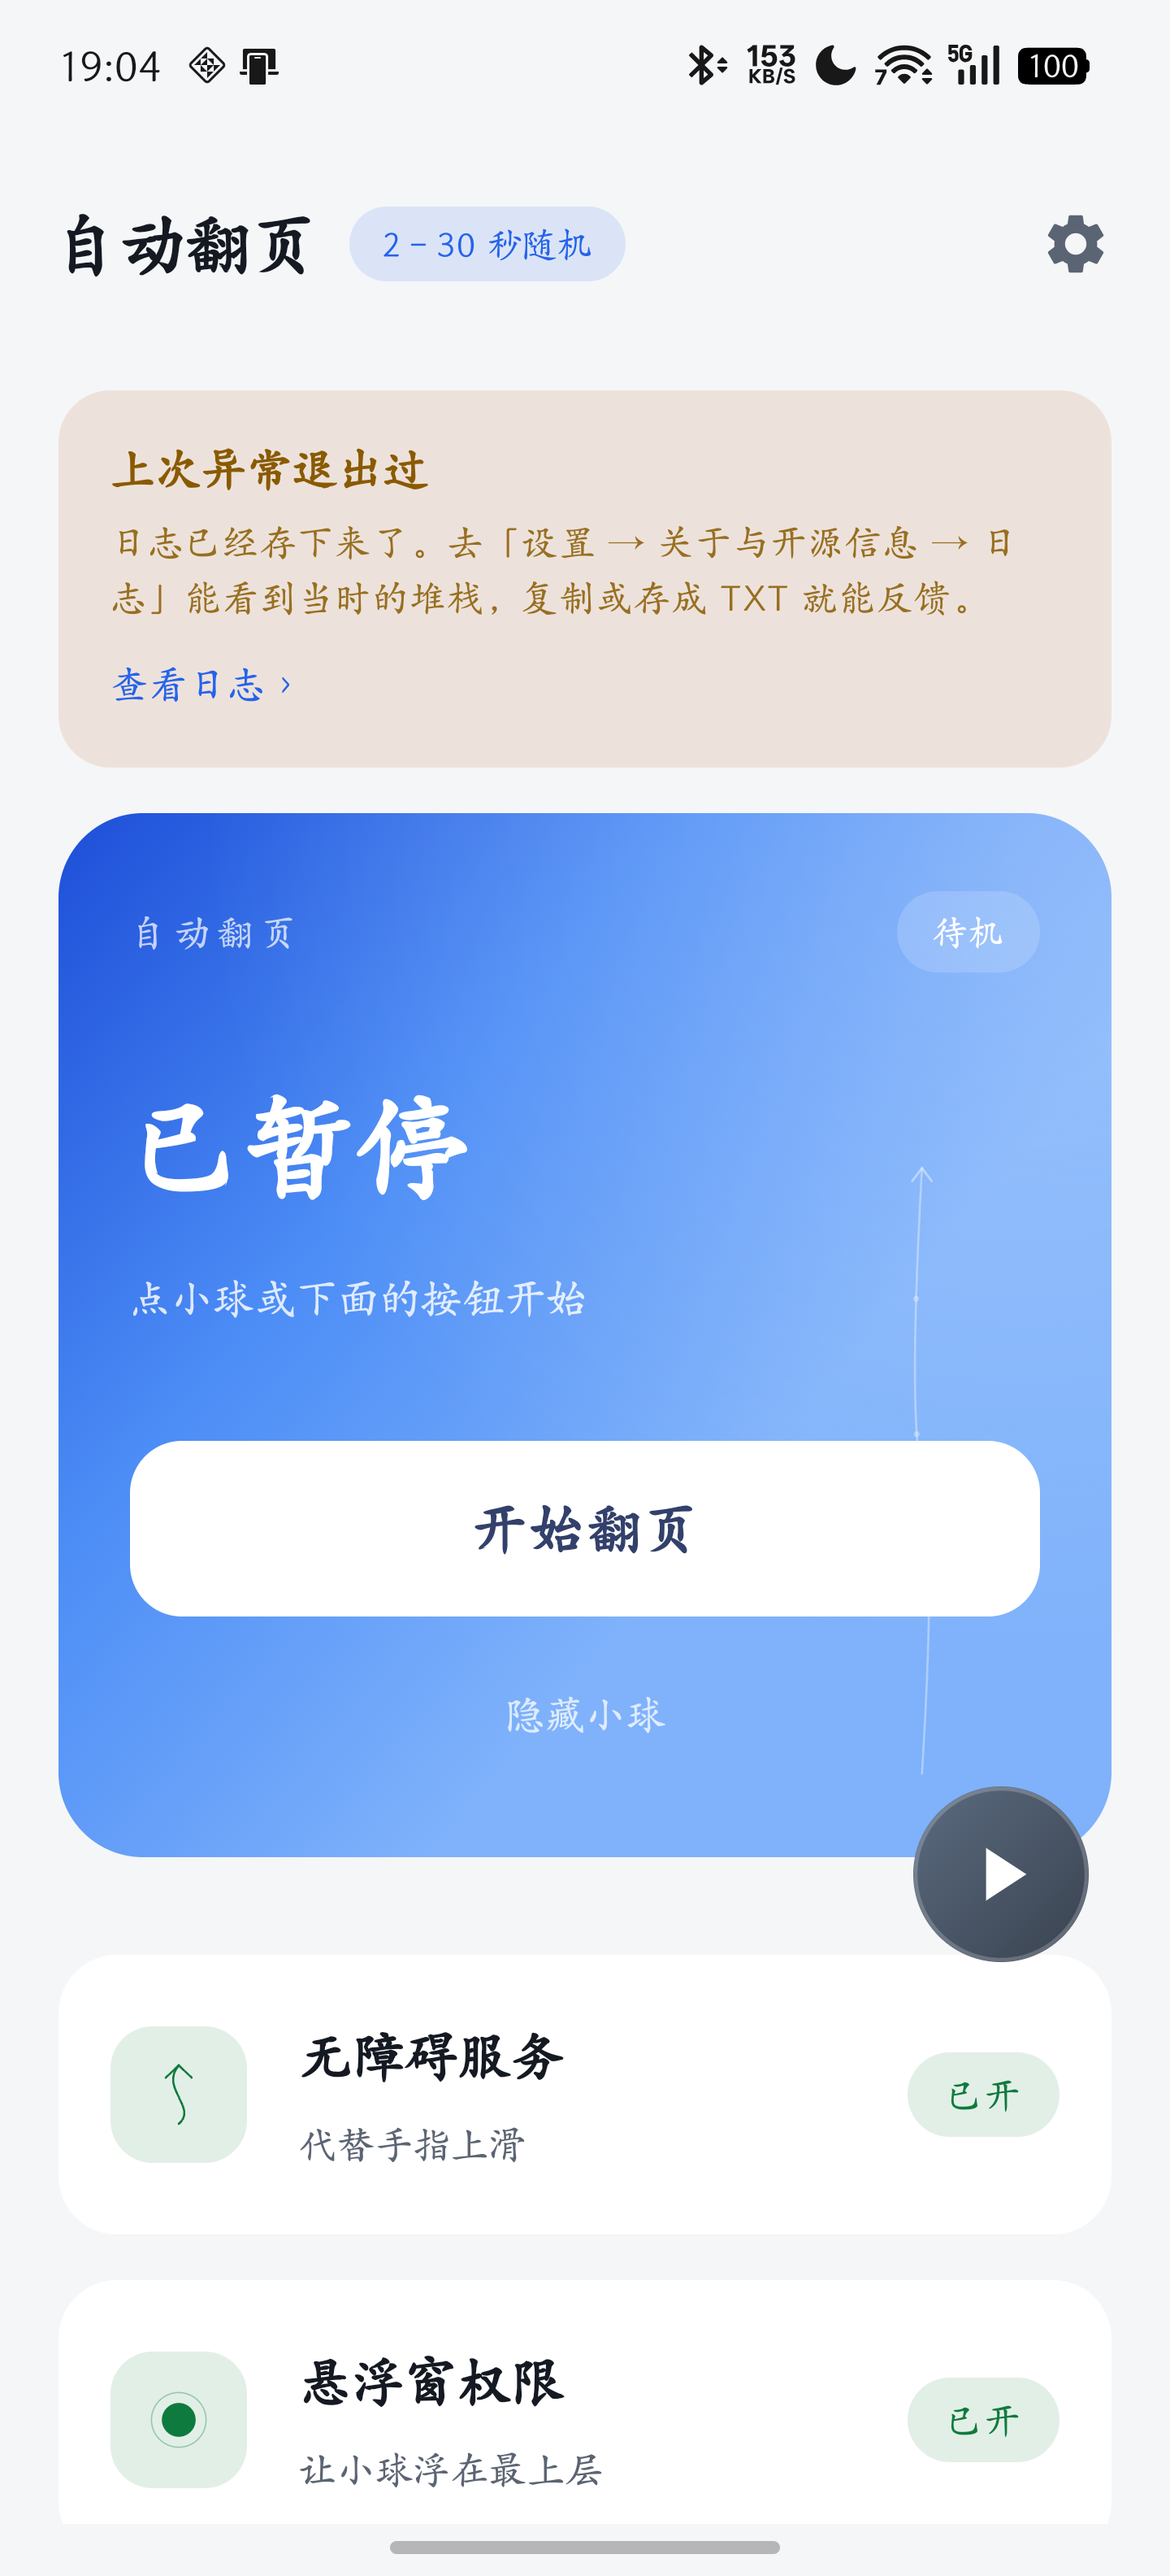
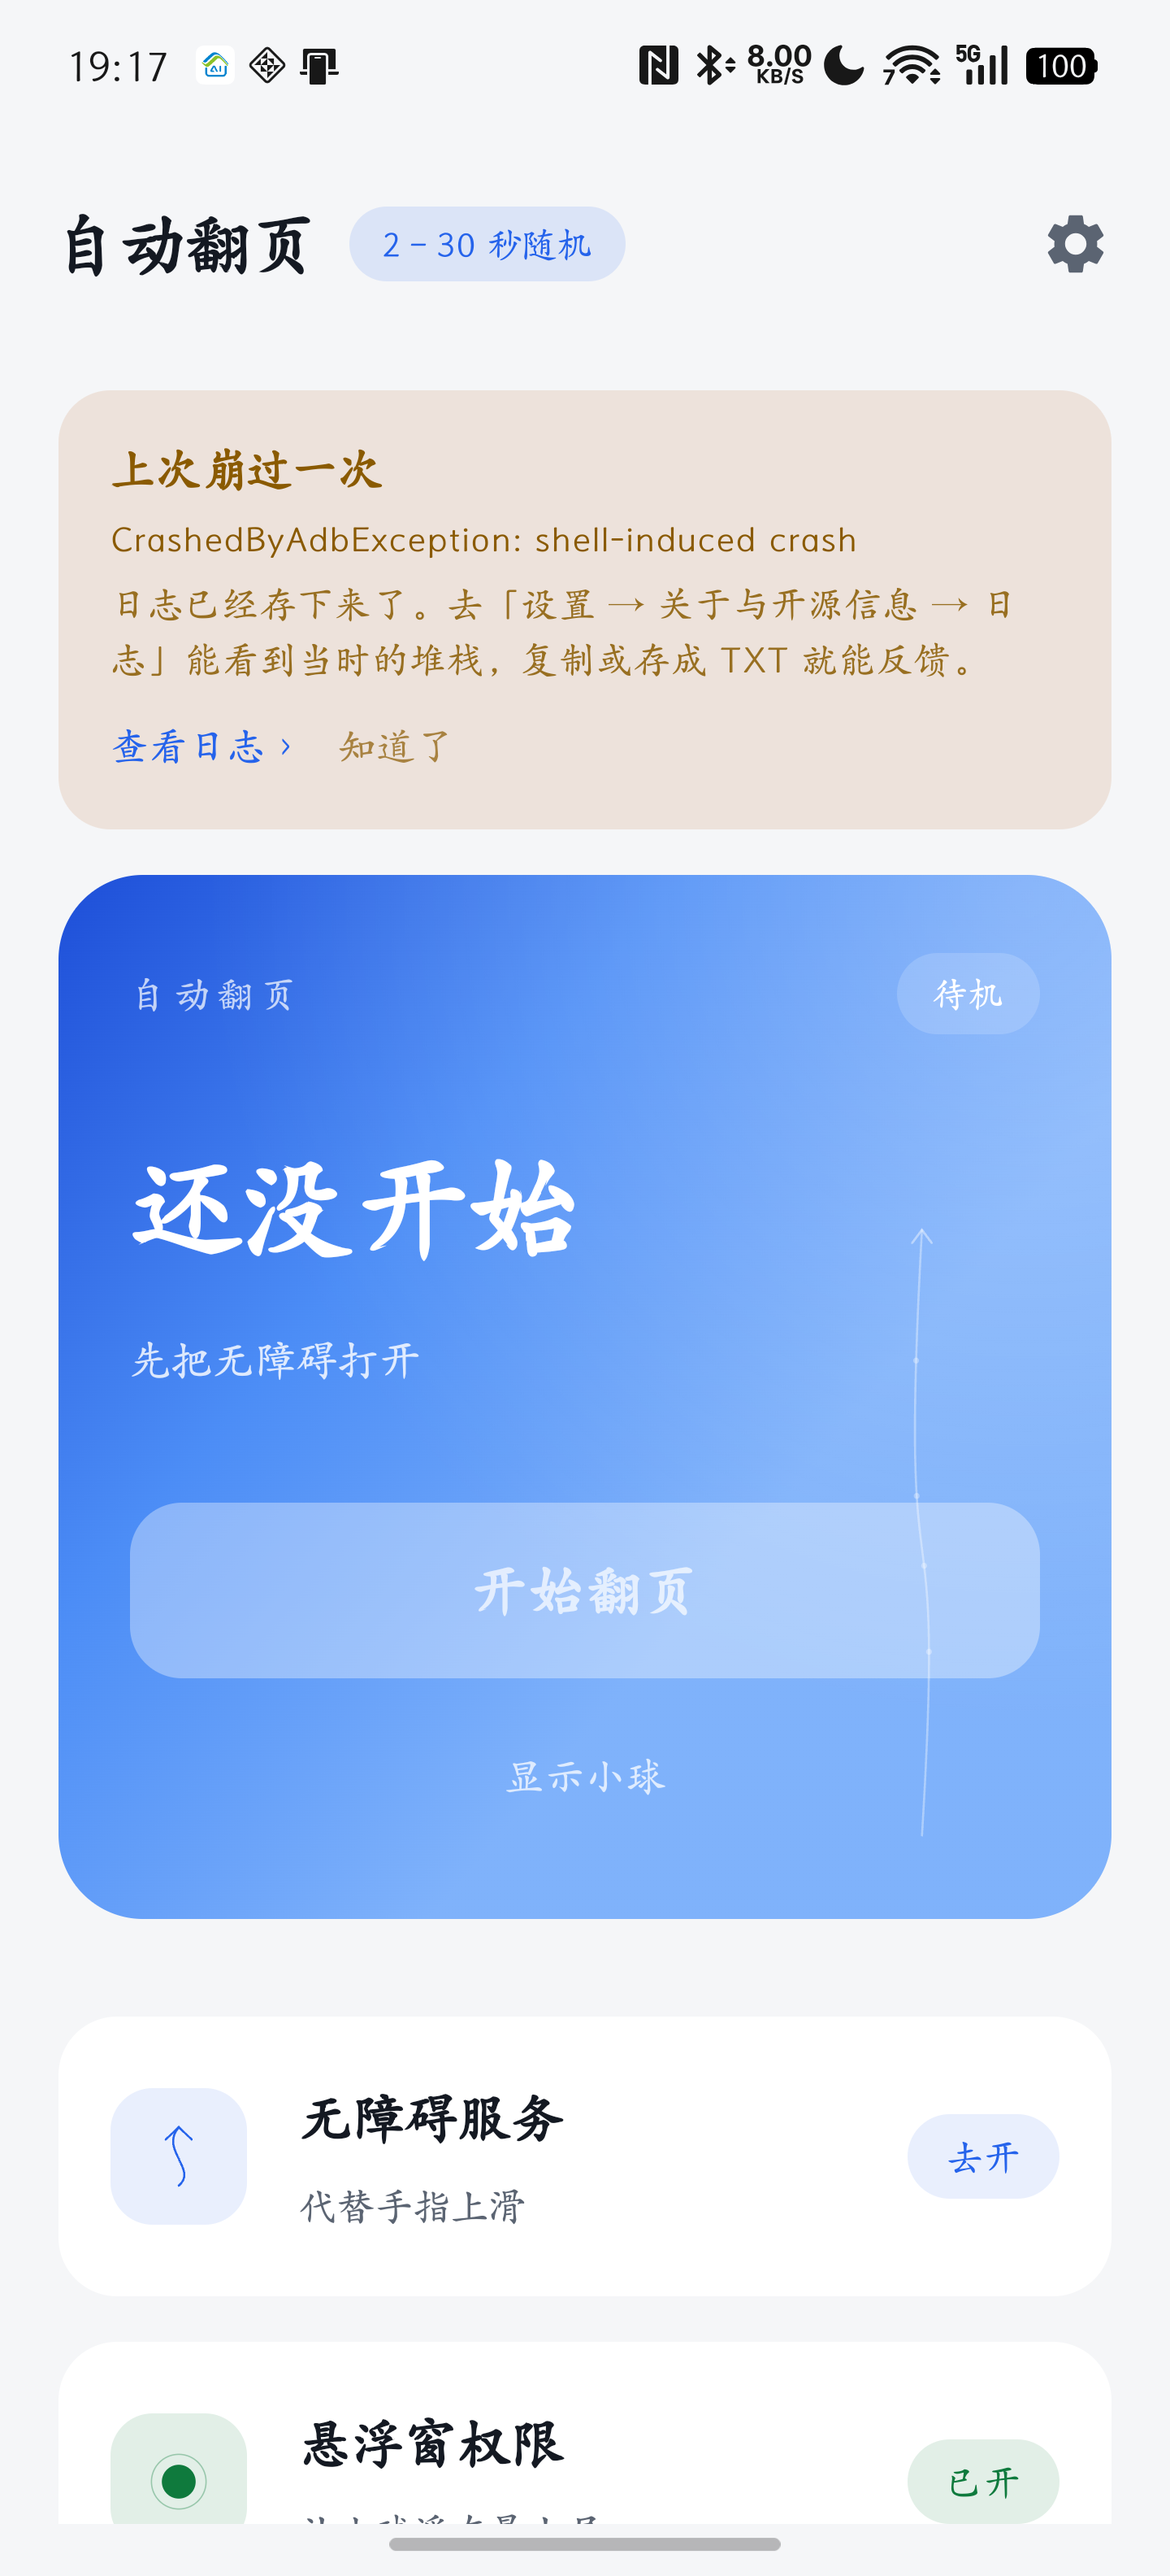
fix(1.1.0.1): crash notice fires once, recent-only, explicit dismiss; wrap long log lines

diff --git a/app/src/main/java/com/neurotracee/autoswipe/ui/HomeScreen.kt b/app/src/main/java/com/neurotracee/autoswipe/ui/HomeScreen.kt
@@ -31,6 +31,7 @@ import androidx.compose.ui.graphics.Path
 import androidx.compose.ui.graphics.drawscope.DrawScope
 import androidx.compose.ui.graphics.drawscope.Stroke
 import androidx.compose.ui.graphics.StrokeCap
+import androidx.compose.ui.text.font.FontFamily
 import androidx.compose.ui.text.font.FontWeight
 import androidx.compose.ui.text.style.TextAlign
 import androidx.compose.ui.unit.dp
@@ -55,7 +56,9 @@ fun HomeScreen(
     onOpenRepo: () -> Unit,
     onOpenGitee: () -> Unit,
     crashNotice: Boolean = false,
-    onOpenLogs: () -> Unit = {}
+    crashTitle: String = "",
+    onOpenLogs: () -> Unit = {},
+    onDismissCrash: () -> Unit = {}
 ) {
     Column(
         Modifier
@@ -66,7 +69,7 @@ fun HomeScreen(
         Spacer(Modifier.height(14.dp))
 
         if (crashNotice) {
-            CrashNoticeRow(onOpenLogs)
+            CrashNoticeRow(crashTitle, onOpenLogs, onDismissCrash)
             Spacer(Modifier.height(14.dp))
         }
 
@@ -256,20 +259,30 @@ private fun HeroCard(
 }
 
 @Composable
-private fun CrashNoticeRow(onOpenLogs: () -> Unit) {
+private fun CrashNoticeRow(crashTitle: String, onOpenLogs: () -> Unit, onDismiss: () -> Unit) {
     Surface(
         shape = RoundedCornerShape(16.dp),
         color = WarnAmber.copy(alpha = 0.12f),
-        modifier = Modifier.fillMaxWidth().clickable { onOpenLogs() }
+        modifier = Modifier.fillMaxWidth()
     ) {
         Column(Modifier.padding(horizontal = 16.dp, vertical = 14.dp)) {
             Text(
-                tr("上次异常退出过", "The app crashed last time"),
+                tr("上次崩过一次", "The app crashed last time"),
                 fontSize = 13.5.sp,
                 lineHeight = 20.sp,
                 fontWeight = FontWeight.SemiBold,
                 color = Color(0xFF8A5A00)
             )
+            if (crashTitle.isNotBlank()) {
+                Spacer(Modifier.height(4.dp))
+                Text(
+                    crashTitle,
+                    fontSize = 10.5.sp,
+                    lineHeight = 15.sp,
+                    fontFamily = FontFamily.Monospace,
+                    color = Color(0xFF8A5A00)
+                )
+            }
             Spacer(Modifier.height(4.dp))
             Text(
                 tr(
@@ -281,7 +294,16 @@ private fun CrashNoticeRow(onOpenLogs: () -> Unit) {
                 color = Color(0xFF8A5A00).copy(alpha = 0.85f)
             )
             Spacer(Modifier.height(6.dp))
-            Text(tr("查看日志 ›", "Open logs ›"), fontSize = 11.5.sp, color = BrandBlue)
+            Row(verticalAlignment = Alignment.CenterVertically) {
+                Text(tr("查看日志 ›", "Open logs ›"), fontSize = 11.5.sp, color = BrandBlue, modifier = Modifier.clickable { onOpenLogs() })
+                Spacer(Modifier.width(14.dp))
+                Text(
+                    tr("知道了", "Dismiss"),
+                    fontSize = 11.5.sp,
+                    color = Color(0xFF8A5A00).copy(alpha = 0.7f),
+                    modifier = Modifier.clickable { onDismiss() }
+                )
+            }
         }
     }
 }

diff --git a/app/src/main/java/com/neurotracee/autoswipe/LogBook.kt b/app/src/main/java/com/neurotracee/autoswipe/LogBook.kt
@@ -26,6 +26,9 @@ object LogBook {
     private const val DIR_NAME = "logs"
     private const val CRASH_FLAG = "crash-pending.txt"
 
+    /** 崩溃提示只对最近 7 天有效，避免旧记录一直挂着 */
+    private const val CRASH_FRESH_MS = 7L * 24 * 60 * 60 * 1000
+
     private val stamp = SimpleDateFormat("yyyy-MM-dd HH:mm:ss.SSS", Locale.US)
     private val dayFmt = SimpleDateFormat("yyyy-MM-dd", Locale.US)
     private val io = Executors.newSingleThreadExecutor { r ->
@@ -58,7 +61,7 @@ object LogBook {
             write(ctx, "I", "App", "启动 " + summary(ctx))
             val crash = lastCrashAt
             if (crash > 0) {
-                write(ctx, "W", "App", "上次异常退出于 " + stamp.format(Date(crash)) + "（详见当日日志里的 E/Crash）")
+                write(ctx, "W", "App", "上次崩溃于 " + stamp.format(Date(crash)) + "：" + lastCrashTitle + "（堆栈见当日日志 E/Crash）")
             }
         }
     }
@@ -99,17 +102,25 @@ object LogBook {
         }
     }
 
+    /**
+     * 只在「上一次确实是未捕获异常」时才留标记：进程被系统回收、用户切到别的应用、
+     * 正常退出，都不会在这里凭空生成记录。标记读一次就删掉（一次性），
+     * 所以同一次崩溃不会在之后每次开屏都重复提醒。
+     */
     private fun readCrashFlag() {
         val ctx = app ?: return
         val f = File(dir(ctx), CRASH_FLAG)
         if (!f.exists()) return
         runCatching {
             val lines = f.readLines()
-            lastCrashAt = lines.getOrNull(0)?.toLongOrNull() ?: 0L
-            lastCrashTitle = lines.getOrNull(1).orEmpty()
+            val at = lines.getOrNull(0)?.toLongOrNull() ?: 0L
+            // 太旧的记录就别再打扰了
+            if (at > 0 && System.currentTimeMillis() - at <= CRASH_FRESH_MS) {
+                lastCrashAt = at
+                lastCrashTitle = lines.getOrNull(1).orEmpty()
+            }
         }
-        if (lastCrashAt == 0L) lastCrashAt = System.currentTimeMillis()
-        // 标记保留到用户主动关掉提示为止
+        runCatching { f.delete() }
     }
 
     /** 用户在首页点掉「上次崩了」的提示后调用 */

diff --git a/app/src/main/java/com/neurotracee/autoswipe/MainActivity.kt b/app/src/main/java/com/neurotracee/autoswipe/MainActivity.kt
@@ -195,7 +195,12 @@ private fun AppRoot() {
                     }
                 },
                 crashNotice = AppState.crashNotice,
+                crashTitle = LogBook.lastCrashTitle,
                 onOpenLogs = { showLogs = true },
+                onDismissCrash = {
+                    LogBook.dismissCrash(ctx)
+                    AppState.crashNotice = false
+                },
                 onOpenGitee = {
                     if (!com.neurotracee.autoswipe.ui.openUrlInBrowser(
                             ctx, "https://gitee.com/bio234/auto-swipe"

diff --git a/docs/release-1.1.0.1.md b/docs/release-1.1.0.1.md
@@ -1,0 +1,33 @@
+更新级别：建议
+
+> **一句话**：崩溃提示不再每次都弹——标记改成一次性、只认最近 7 天，并且正常切应用不会被误报。
+
+## 1. 崩溃提示只提醒一次
+
+- 启动时读到崩溃标记就把文件删掉，下一次启动不会再出现同一条提示。
+- 只对最近 7 天内的崩溃有效，更旧的记录直接作废。
+- 提示卡直接写明异常类名与消息（如 `IllegalStateException: ...`），比「异常退出」更具体。
+- 卡片右下新增「知道了」，点一下收起，不用先打开日志页。
+
+## 2. 判定没有放宽，只是不再粘着
+
+- 标记只在未捕获异常时写入；按 Home 键切走、进程被系统回收、正常返回退出，都不会生成记录。
+- 日志里那条「上次崩溃于 …」仍然照写，方便回溯，但它只是历史记录，不影响提示是否出现。
+
+## English · Release Notes
+
+Level: recommended
+
+> **In one line**: the crash notice fires once instead of every launch — the flag is consumed on read, only recent crashes count, and switching apps is never mistaken for a crash.
+
+### 1. The notice appears once
+
+- The flag file is deleted as soon as it is read, so the same crash cannot prompt again on later launches.
+- Only crashes from the last 7 days are surfaced; older records are dropped.
+- The card now shows the exception class and message (e.g. `IllegalStateException: ...`) instead of a vague "abnormal exit".
+- A "Dismiss" action closes the card without opening the log page.
+
+### 2. Detection is unchanged — only the stickiness
+
+- The flag is written solely by the uncaught-exception handler. Pressing Home, the system reclaiming the process, or a normal back-out writes nothing.
+- The "crashed at …" line in the log is kept for traceability; it is history only and does not decide whether the card shows.

diff --git a/CHANGELOG.md b/CHANGELOG.md
@@ -1,5 +1,15 @@
 # 更新记录
 
+## 1.1.0.1
+
+崩溃提示改成「只提醒一次」，并收紧了判定，正常切应用不再被当成崩溃。
+
+- 崩溃标记改成一次性：启动时读到就删，同一次崩溃不会之后每次开屏都弹。
+- 只认最近 7 天内的记录，更旧的自动作废，不再挂着吓人。
+- 判定仍然只来自未捕获异常；切到别的应用、进程被系统回收、正常退出都不会生成标记。
+- 首页提示写明异常类名与消息（如 `IllegalStateException: ...`），不再笼统说「异常退出」。
+- 提示卡右侧新增「知道了」，点它即可收起，不必先打开日志页。
+
 ## 1.1.0.0
 
 加了一套只在本机的日志：出问题能自己看到、复制、交出去。
